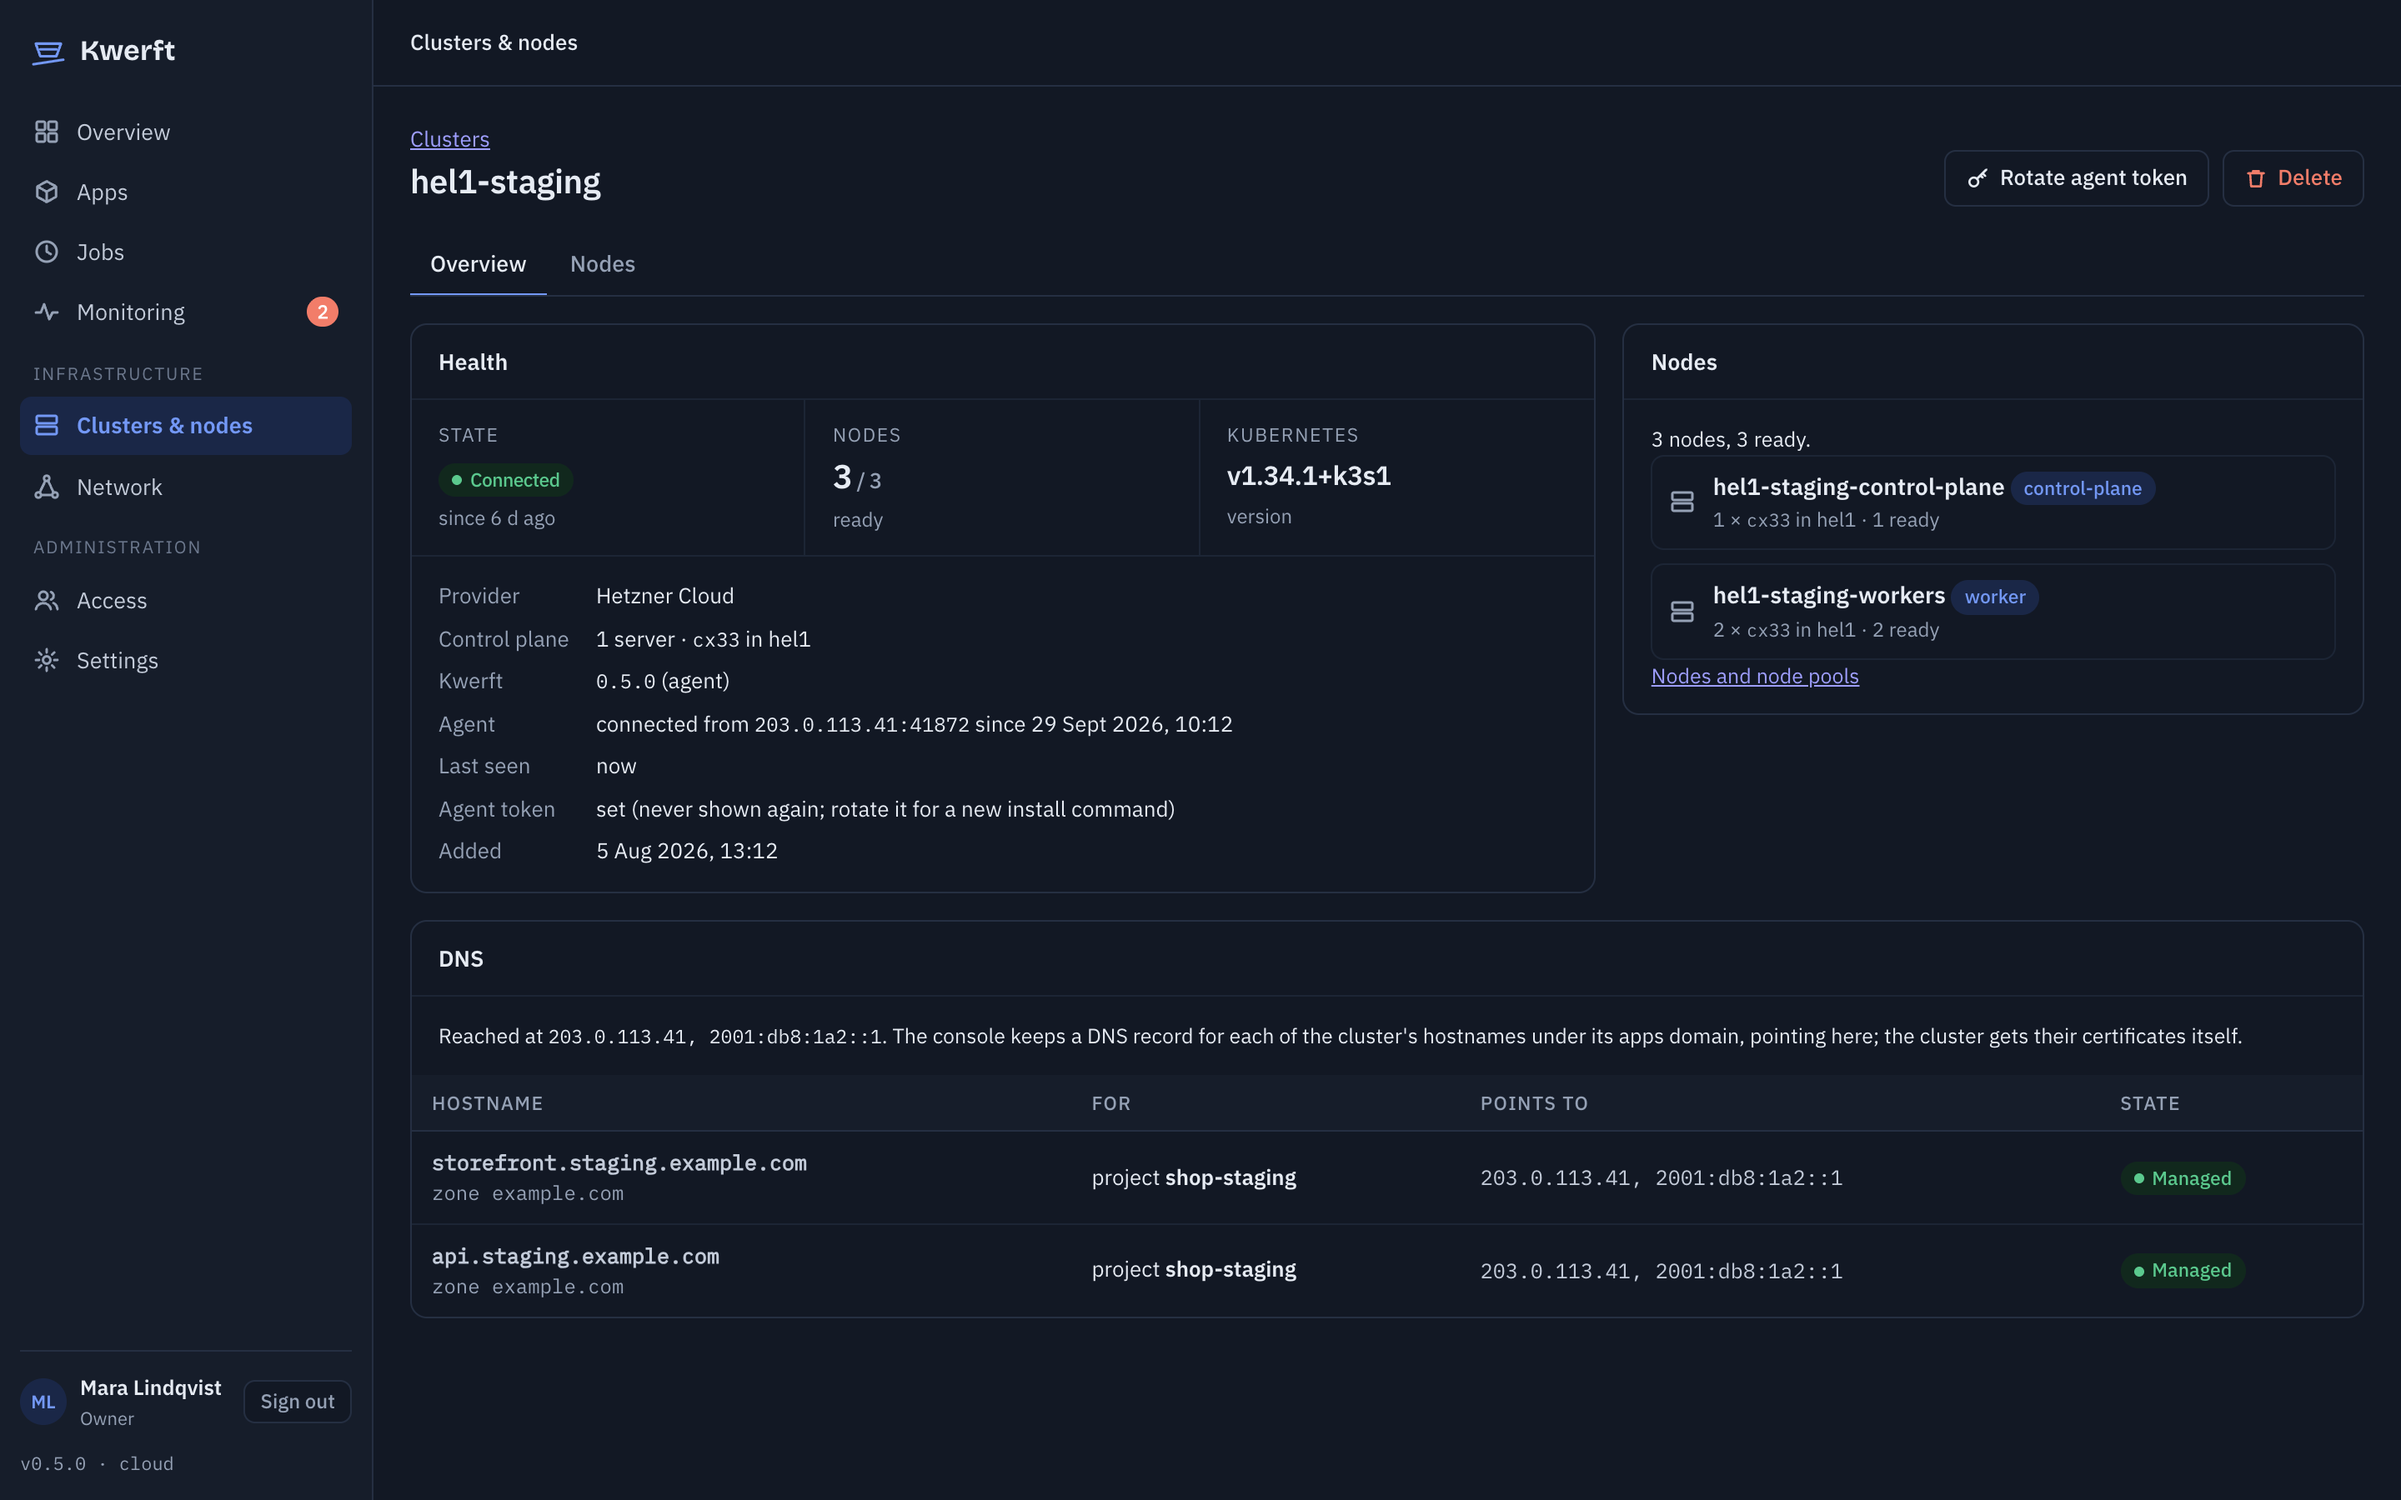
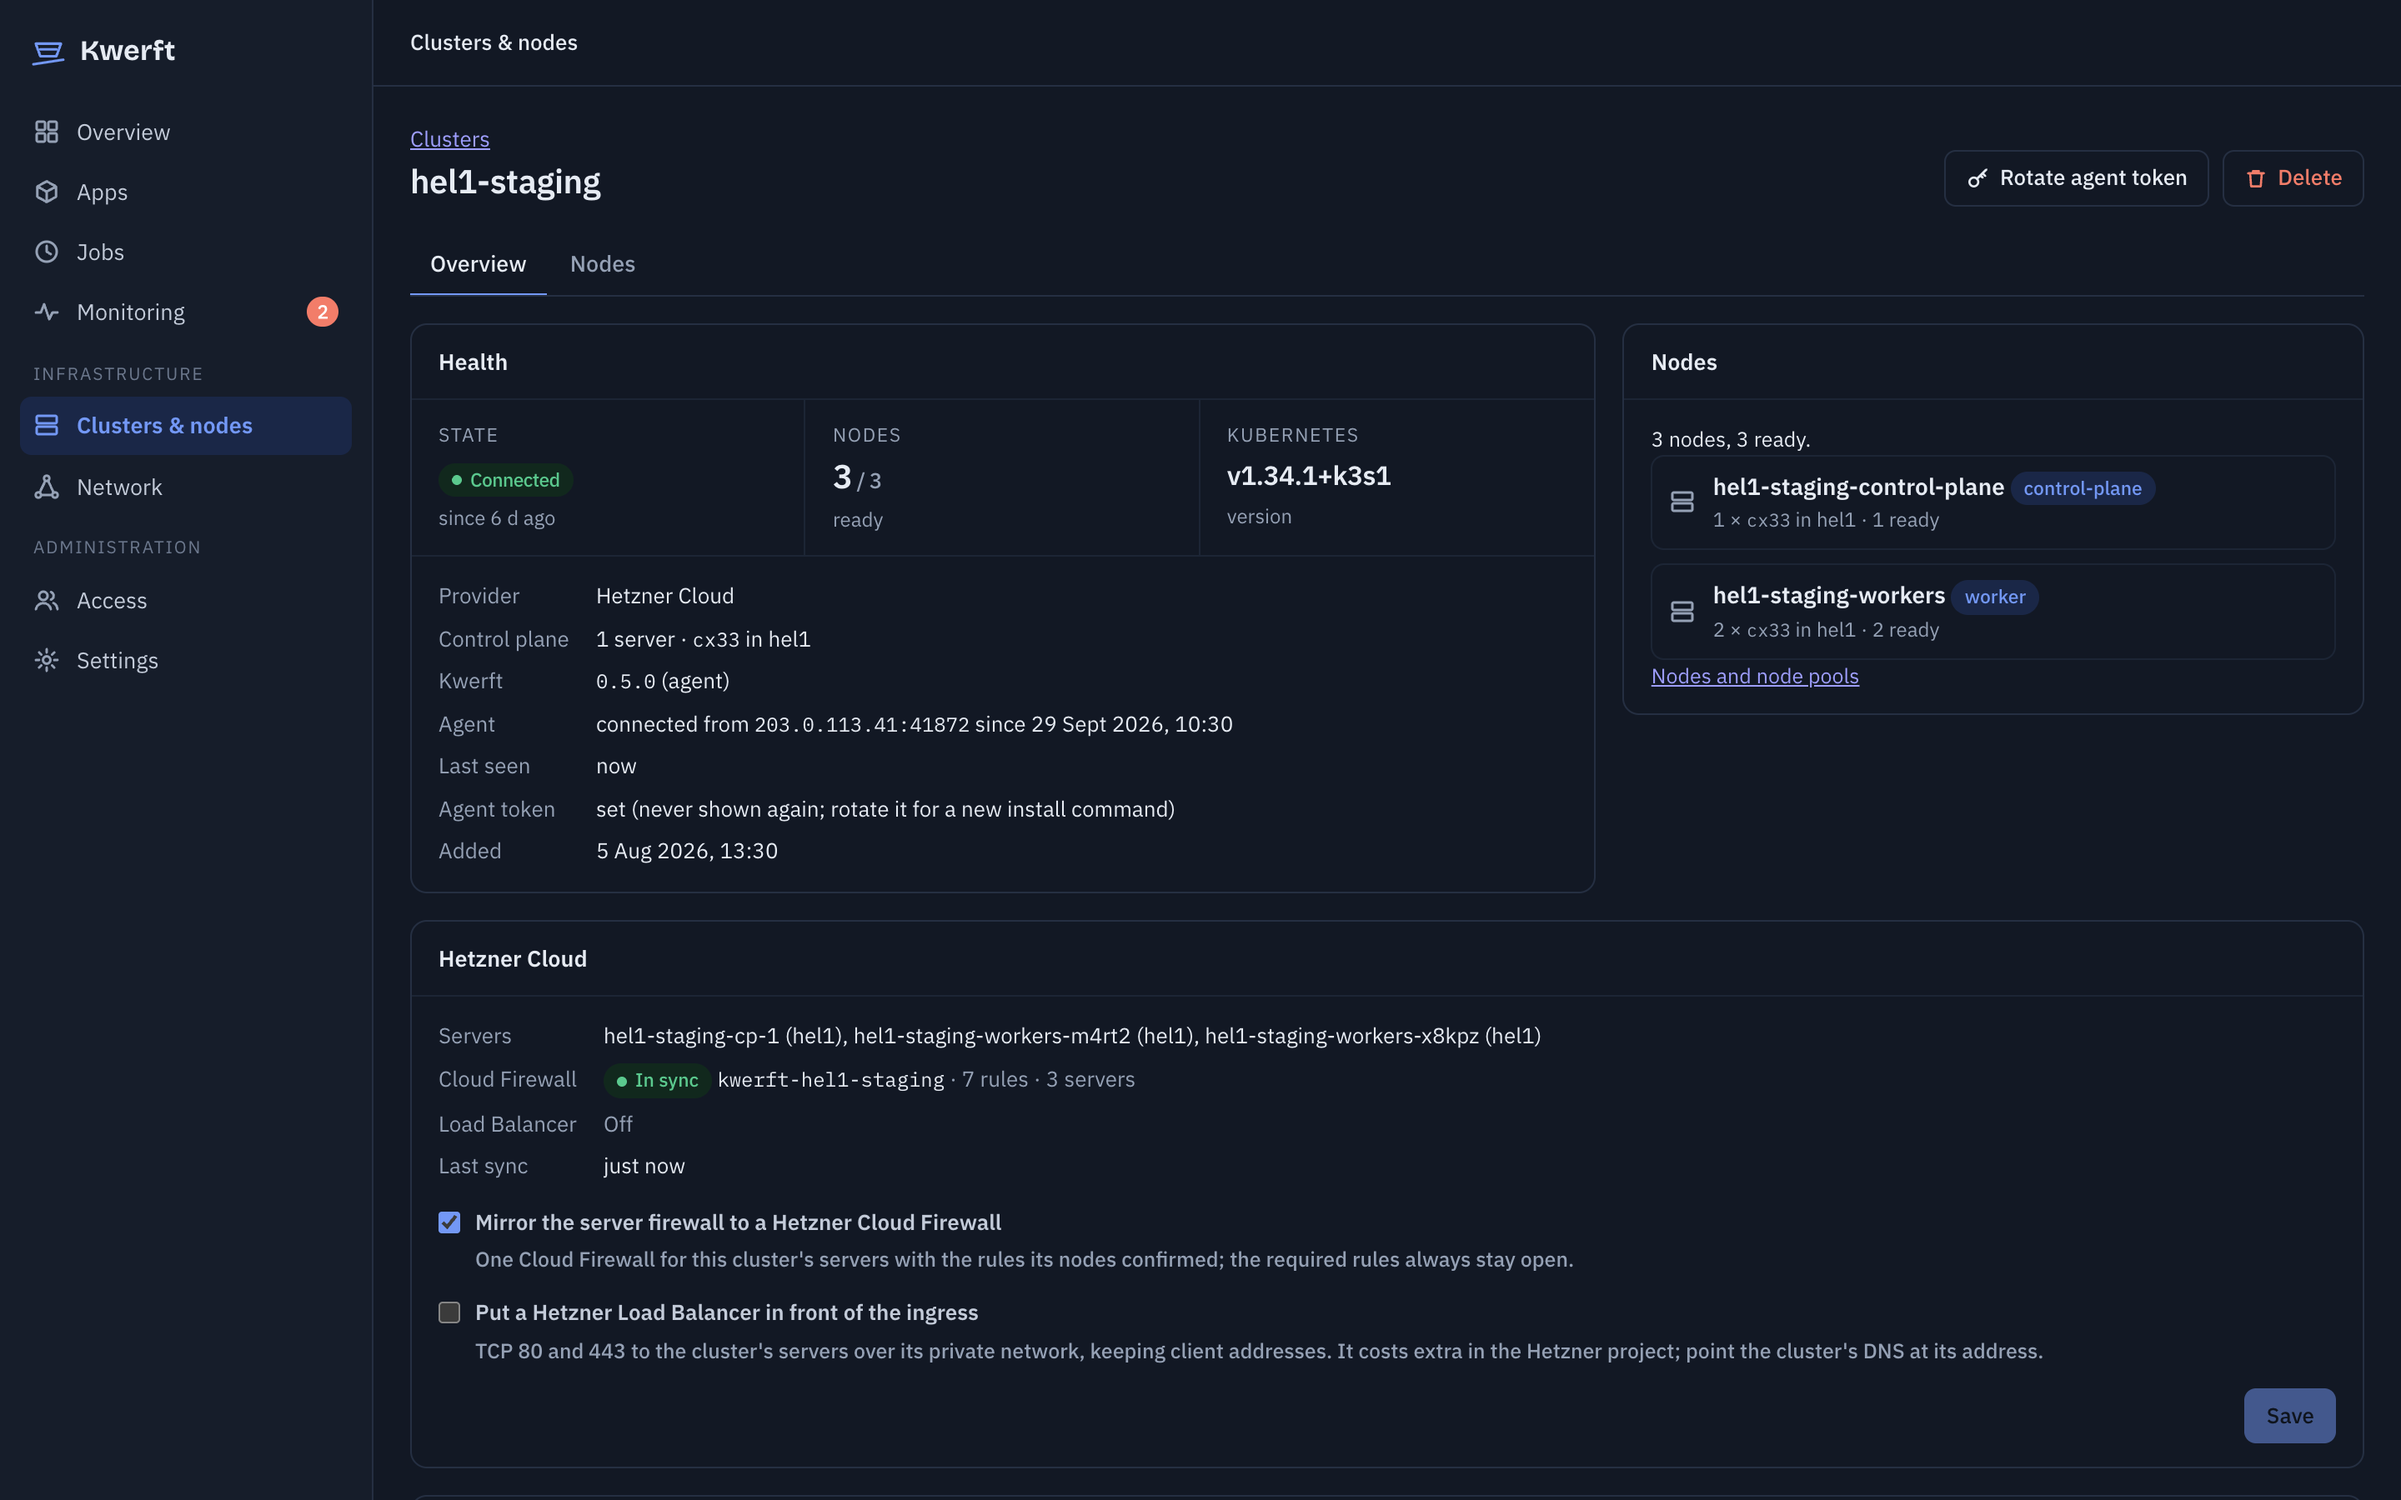
Advertise kwerft.dev/install.sh as the install command
/install.sh and /<version>/install.sh redirect (302) to the kwerft-install
repo. Also fixes a duplicated sentence on the getting started page.

diff --git a/src/site.ts b/src/site.ts
@@ -1,7 +1,10 @@
 // Facts shown in several places. Update when a release ships.
-export const INSTALL_URL = "https://raw.githubusercontent.com/ehilzinger/kwerft-install/main/install.sh";
+/** The advertised installer URL; netlify.toml forwards it to the kwerft-install repo. */
+export const INSTALL_URL = "https://kwerft.dev/install.sh";
+/** Where the script actually lives (what /install.sh redirects to). */
+export const SCRIPT_SOURCE = "https://github.com/ehilzinger/kwerft-install";
 export const INSTALL_CMD = `curl -fsSL ${INSTALL_URL} | sudo bash -s -- --domain ops.example.com --email ops@example.com --yes`;
+/** The same command, broken over two lines for display. */
+export const INSTALL_DISPLAY = `curl -fsSL ${INSTALL_URL} | sudo bash -s -- \\\n  --domain ops.example.com --email ops@example.com --yes`;
 export const RELEASES_URL = "https://github.com/ehilzinger/kwerft-install/releases";
 export const LATEST = "v0.4.0";
-/** The same command, broken over two lines for display. */
-export const INSTALL_DISPLAY = `curl -fsSL ${INSTALL_URL} \\\n  | sudo bash -s -- --domain ops.example.com --email ops@example.com --yes`;

diff --git a/src/content/docs/installer.md b/src/content/docs/installer.md
@@ -9,16 +9,16 @@ order: 1
 
 ## Run it
 
-The script runs as root. Pipe it from GitHub:
+The script runs as root. `kwerft.dev/install.sh` forwards to the script in the public [ehilzinger/kwerft-install](https://github.com/ehilzinger/kwerft-install) repository on GitHub:
 
 ```bash
-curl -fsSL https://raw.githubusercontent.com/ehilzinger/kwerft-install/main/install.sh | sudo bash -s -- --domain ops.example.com --email ops@example.com --yes
+curl -fsSL https://kwerft.dev/install.sh | sudo bash -s -- --domain ops.example.com --email ops@example.com --yes
 ```
 
 Or download it first, read it, and run it:
 
 ```bash
-curl -fsSLO https://raw.githubusercontent.com/ehilzinger/kwerft-install/main/install.sh
+curl -fsSLO https://kwerft.dev/install.sh
 sudo bash install.sh --help
 ```
 
@@ -26,13 +26,13 @@ The whole script is a set of functions called on its last line, so a download th
 
 ## Pin a version
 
-`…/kwerft-install/main/install.sh` is always the latest stable release (v0.4.0 at the time of writing). Every release, release candidates included, also has its own copy:
+`https://kwerft.dev/install.sh` is always the latest stable release (v0.4.0 at the time of writing). Every release, release candidates included, also has its own copy at `https://kwerft.dev/<version>/install.sh`:
 
 ```bash
-curl -fsSL https://raw.githubusercontent.com/ehilzinger/kwerft-install/main/v0.4.0/install.sh | sudo bash -s -- --domain ops.example.com --yes
+curl -fsSL https://kwerft.dev/v0.4.0/install.sh | sudo bash -s -- --domain ops.example.com --yes
 ```
 
-A pinned script installs its own version. The release candidates of v0.5.0, which bring [Clusters & nodes](/docs/clusters-and-nodes), the Hetzner Cloud integration and several of the flags below, are at `…/main/v0.5.0-rc.2/install.sh`.
+A pinned script installs its own version. The release candidates of v0.5.0, which bring [Clusters & nodes](/docs/clusters-and-nodes), the Hetzner Cloud integration and several of the flags below, are at `https://kwerft.dev/v0.5.0-rc.2/install.sh`.
 
 `--version` picks the Kwerft release (console image and Helm chart) independently of the script; it takes `0.4.0` or `v0.4.0`. The installer checks that the release is published before it changes anything and stops with exit code 50 if it is not. Prefer the script of the release you install, since flags and stages change between releases.
 
@@ -124,7 +124,7 @@ Options with a value can also come from the environment; flags win. This suits c
 Switches such as `--lite`, `--yes` or `--agent` have no environment variable; pass them as flags.
 
 ```bash
-curl -fsSL https://raw.githubusercontent.com/ehilzinger/kwerft-install/main/install.sh \
+curl -fsSL https://kwerft.dev/install.sh \
   | sudo KWERFT_DOMAIN=ops.example.com bash -s -- --yes
 ```
 
@@ -217,7 +217,7 @@ Exit codes are a stable contract for automation:
 If a firewall change locked you out of SSH, open the server's console from Hetzner (VNC for Cloud servers, KVM for dedicated ones) and run:
 
 ```bash
-curl -fsSL https://raw.githubusercontent.com/ehilzinger/kwerft-install/main/install.sh | sudo bash -s -- --reset-firewall
+curl -fsSL https://kwerft.dev/install.sh | sudo bash -s -- --reset-firewall
 ```
 
 It removes Kwerft's nftables table and pauses the console's firewall rules on this node, so they are not put back. Run your install command again to restore the baseline, and delete `/var/lib/kwerft/firewall/paused` to let the console manage this node's firewall again. See [Network › Server firewall](/docs/network#server-firewall).
@@ -225,7 +225,7 @@ It removes Kwerft's nftables table and pauses the console's firewall rules on th
 ## Uninstall
 
 ```bash
-curl -fsSL https://raw.githubusercontent.com/ehilzinger/kwerft-install/main/install.sh | sudo bash -s -- --uninstall --yes
+curl -fsSL https://kwerft.dev/install.sh | sudo bash -s -- --uninstall --yes
 ```
 
 This removes k3s with every workload on the server and the data on its local volumes, Kwerft's firewall table, the registry mirror and AppArmor profile, `/var/lib/kwerft`, `/etc/kwerft` and Kwerft's sysctl, module and SSH files. The logs in `/var/log/kwerft` stay. Without `--yes` it asks first.

diff --git a/src/content/docs/clusters-and-nodes.md b/src/content/docs/clusters-and-nodes.md
@@ -130,10 +130,12 @@ Kwerft creates a Cloud Network `kwerft-<name>` and the first server, which insta
 For a dedicated server, or a server elsewhere, click **Adopt a cluster**, enter a name and click **Add cluster**. Kwerft shows an install command once; run it as root on a fresh Ubuntu 22.04, 24.04 or 26.04 server with 4 GB of RAM or more:
 
 ```bash
-curl -fsSL https://raw.githubusercontent.com/ehilzinger/kwerft-install/main/install.sh | sudo bash -s -- --agent --console https://ops.example.com --cluster-token kwag_… --version <console version>
+curl -fsSL https://kwerft.dev/v<console version>/install.sh | sudo bash -s -- --agent --console https://ops.example.com --cluster-token kwag_… --version <console version>
 ```
 
-<div class="warn">While v0.5.0 is a release candidate, the script at <code>…/main/install.sh</code> is still v0.4.0's, which does not know <code>--agent</code> and stops with "Unknown option". Replace the URL in the command with the release candidate's own script, for example <code>https://raw.githubusercontent.com/ehilzinger/kwerft-install/main/v0.5.0-rc.2/install.sh</code>, and keep the rest.</div>
+The command downloads the installer of the console's own version, so the server gets the same release as the console.
+
+<div class="warn">A console on v0.5.0-rc.2 or earlier shows a command that downloads <code>…/main/install.sh</code>, the latest stable script, which is still v0.4.0's: it does not know <code>--agent</code> and stops with "Unknown option". Replace the URL with the console's own script, for example <code>https://kwerft.dev/v0.5.0-rc.2/install.sh</code>, and keep the rest. Later versions show the right URL.</div>
 
 It installs the same stack as a normal install (k3s, Cilium, Traefik, cert-manager, monitoring) without a console, and the cluster appears under Clusters within a minute. All it needs is outbound HTTPS to the console. More servers join it from its own Nodes tab.
 

diff --git a/src/content/docs/troubleshooting.md b/src/content/docs/troubleshooting.md
@@ -70,7 +70,7 @@ If you just moved the console to a new hostname, the old one redirects for a day
 A firewall change that removes access rolls back by itself after 60 seconds unless someone keeps it, and Kwerft refuses changes that would block SSH from the address you are using. If you are locked out anyway, open the server's console from Hetzner (VNC for Cloud servers, KVM for dedicated ones), log in as root and run:
 
 ```bash
-curl -fsSL https://raw.githubusercontent.com/ehilzinger/kwerft-install/main/install.sh | sudo bash -s -- --reset-firewall
+curl -fsSL https://kwerft.dev/install.sh | sudo bash -s -- --reset-firewall
 ```
 
 Then re-run your install command to restore the baseline firewall, and delete `/var/lib/kwerft/firewall/paused` once you want the console to manage that node's firewall again. See [Network › Lock-out protection](/docs/network#lock-out-protection).
@@ -114,4 +114,4 @@ Rules notify only the channels they name. Open the rule under **Monitoring › A
 
 ## The adopt command fails with "Unknown option: --agent"
 
-The command a v0.5.0 release candidate shows downloads the stable script, which is still v0.4.0 and has no agent mode. Replace the script URL in the command with the release candidate's, for example `…/kwerft-install/main/v0.5.0-rc.2/install.sh`. See [Clusters & nodes](/docs/clusters-and-nodes#adopt-an-existing-server).
+The command a console on v0.5.0-rc.2 or earlier shows downloads the stable script, which is still v0.4.0 and has no agent mode. Replace the script URL in the command with the console's own, for example `https://kwerft.dev/v0.5.0-rc.2/install.sh`. Later consoles show their own version's script. See [Clusters & nodes](/docs/clusters-and-nodes#adopt-an-existing-server).

diff --git a/README.md b/README.md
@@ -15,7 +15,7 @@ npm run build     # static site in dist/
 |---|---|
 | `src/pages/` | Homepage, `getting-started`, docs index and `docs/[id]` |
 | `src/content/docs/` | Help pages (Markdown; frontmatter schema in `src/content.config.ts`) |
-| `src/site.ts` | Install command and latest release — update when a release ships |
+| `src/site.ts` | Install command (`kwerft.dev/install.sh`, redirected in `netlify.toml`) and latest release — update when a release ships |
 | `src/styles/tokens.css` | Design tokens, copied from `werft/web/src/styles/tokens.css` |
 | `src/assets/screenshots/` | Console screenshots, made by `tools/screenshots` |
 | `netlify.toml` | Build, security headers (CSP `'self'`, nothing inline), redirects |

diff --git a/src/content/docs/network.md b/src/content/docs/network.md
@@ -97,7 +97,7 @@ After a rollback, the page says so and offers **Apply again** or **Discard the c
 Open the server's console from Hetzner (the Cloud Console's VNC console, or a KVM console for a dedicated server), log in as root and run the installer with `--reset-firewall`:
 
 ```bash
-curl -fsSL https://raw.githubusercontent.com/ehilzinger/kwerft-install/main/install.sh | sudo bash -s -- --reset-firewall
+curl -fsSL https://kwerft.dev/install.sh | sudo bash -s -- --reset-firewall
 ```
 
 This removes Kwerft's firewall table and pauses the console's firewall rules on that node. Re-run your install command to restore the baseline. To let the console manage that node's firewall again, delete `/var/lib/kwerft/firewall/paused`.
